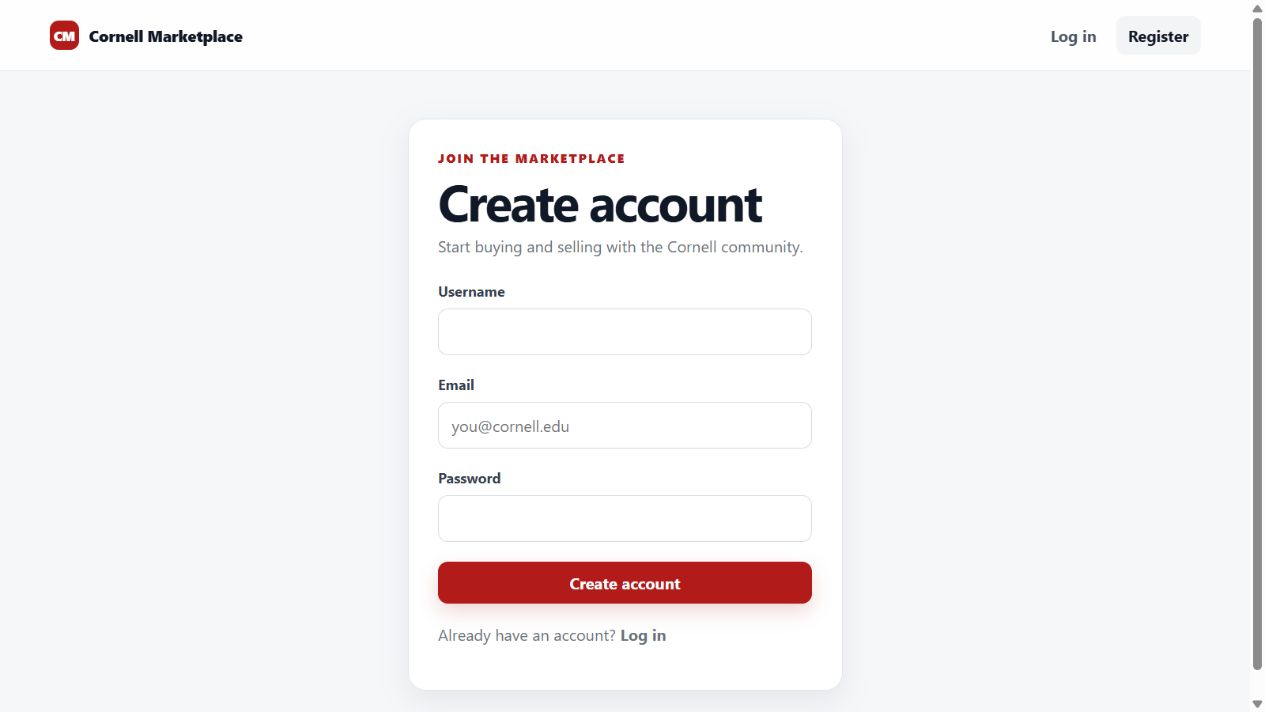
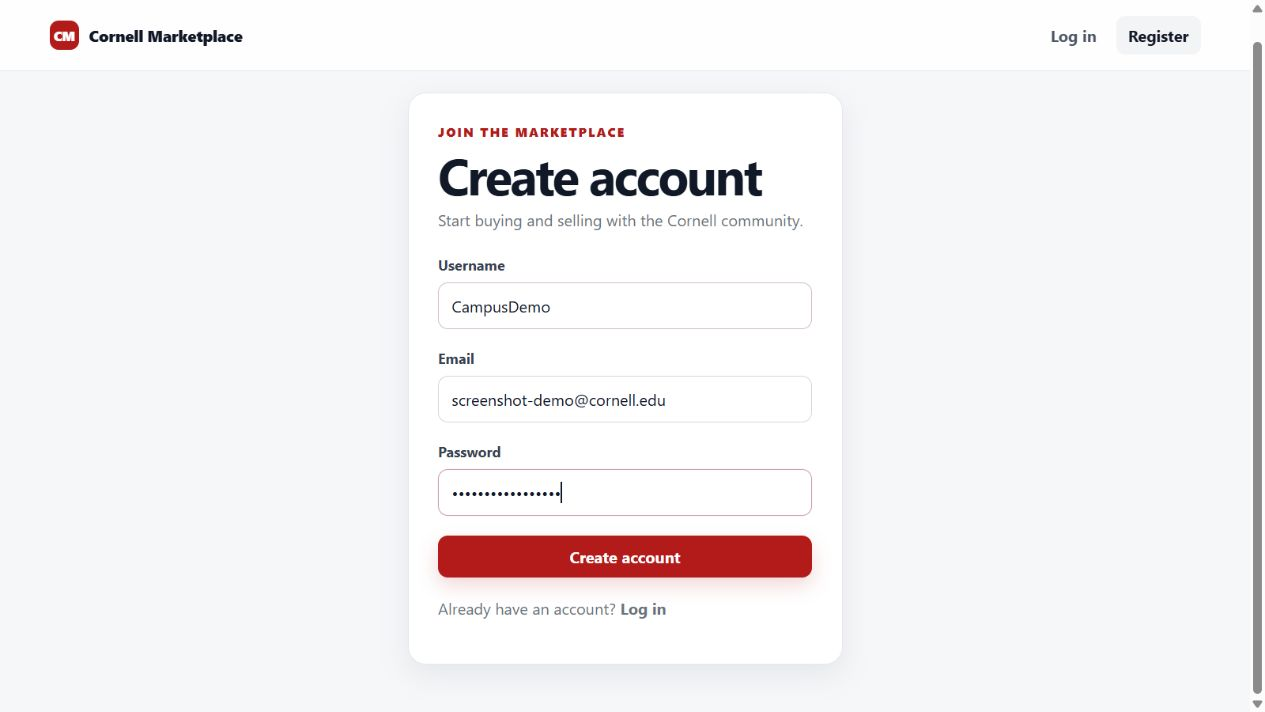
Add reproducible campus demo and verified marketplace screenshots

diff --git a/frontend/src/Homepage.tsx b/frontend/src/Homepage.tsx
@@ -40,6 +40,10 @@ export function HomePage() {
         </div>
       </div>
 
+      {listings.some((listing) => listing.description.startsWith('Demo listing (fictional):')) && (
+        <p className="muted">Demo listings: fictional campus items with stock photos, not real offers.</p>
+      )}
+
       {listings.length === 0 ? (
         <div className="empty-state">No listings found.</div>
       ) : (

diff --git a/frontend/vite.config.ts b/frontend/vite.config.ts
@@ -6,7 +6,7 @@ export default defineConfig({
   plugins: [react()],
   server: {
     proxy: Object.fromEntries(['/auth', '/users', '/listings'].map((path) => [path, {
-      target: 'http://localhost:8080', changeOrigin: true,
+      target: 'http://127.0.0.1:8080', changeOrigin: true,
     }])),
   },
 })

diff --git a/backend/src/main/java/com/yazen/cornellmarketplace/configs/DemoDataSeeder.java b/backend/src/main/java/com/yazen/cornellmarketplace/configs/DemoDataSeeder.java
@@ -1,0 +1,60 @@
+package com.yazen.cornellmarketplace.configs;
+
+import com.yazen.cornellmarketplace.entities.Listing;
+import com.yazen.cornellmarketplace.entities.Users;
+import com.yazen.cornellmarketplace.repositories.ListingRepository;
+import com.yazen.cornellmarketplace.repositories.UserRepository;
+import java.io.IOException;
+import java.util.UUID;
+import org.springframework.boot.CommandLineRunner;
+import org.springframework.context.annotation.Profile;
+import org.springframework.core.io.ClassPathResource;
+import org.springframework.security.crypto.password.PasswordEncoder;
+import org.springframework.stereotype.Component;
+import org.springframework.transaction.annotation.Transactional;
+import tools.jackson.databind.json.JsonMapper;
+
+/** Fictional campus listings, loaded only when the explicit demo profile is active. */
+@Component
+@Profile("demo")
+public class DemoDataSeeder implements CommandLineRunner {
+    static final String EMAIL = "marketplace-demo-listings@cornell.edu";
+    private final UserRepository users;
+    private final ListingRepository listings;
+    private final PasswordEncoder encoder;
+    private final JsonMapper json;
+
+    public DemoDataSeeder(UserRepository users, ListingRepository listings,
+                          PasswordEncoder encoder, JsonMapper json) {
+        this.users = users;
+        this.listings = listings;
+        this.encoder = encoder;
+        this.json = json;
+    }
+
+    @Override
+    @Transactional
+    public void run(String... args) throws IOException {
+        Users seller = users.findByEmail(EMAIL).orElseGet(() -> users.save(
+            new Users("Campus demo seller", EMAIL, encoder.encode(UUID.randomUUID().toString()))));
+        // No verification bypass or shared demo password. This seller cannot log in.
+        try (var input = new ClassPathResource("demo/listings.json").getInputStream()) {
+            var entries = json.readTree(input);
+            var existing = listings.findAll();
+            for (var entry : entries) {
+                String title = entry.get("title").asText();
+                boolean present = java.util.stream.StreamSupport.stream(existing.spliterator(), false).anyMatch(item ->
+                    item.getSeller().getId().equals(seller.getId()) && item.getTitle().equals(title));
+                if (present) continue;
+                Listing item = new Listing();
+                item.setTitle(title);
+                item.setDescription(entry.get("description").asText());
+                item.setPrice(entry.get("price").asDouble());
+                item.setImageUrl(entry.get("imageUrl").asText());
+                item.setPickupLocation(entry.get("pickupLocation").asText());
+                item.setSeller(seller);
+                listings.save(item);
+            }
+        }
+    }
+}

diff --git a/scripts/seed_data.py b/scripts/seed_data.py
@@ -1,56 +1,9 @@
-import requests
-import json
+"""Start the opt-in local marketplace demo, seeded with 12 fictional campus listings."""
+from pathlib import Path
+import os
+import subprocess
 
-BASE_URL = "http://localhost:8080"  # confirm this matches your backend's actual port
-
-# --- Step A: Auth ---
-register_payload = {
-    "username": "seed_bot",
-    "email": "seedbot@cornellmarketplace.com",
-    "password": "SeedPassword123!"
-}
-requests.post(f"{BASE_URL}/auth/register", json=register_payload)
-
-login_payload = {
-    "email": "seedbot@cornellmarketplace.com",
-    "password": "SeedPassword123!"
-}
-login_response = requests.post(f"{BASE_URL}/auth/login", json=login_payload)
-token = login_response.json()["token"]
-headers = {"Authorization": f"Bearer {token}"}
-print("Got token:", token[:20], "...")
-
-# --- Step B: Fetch sample product data ---
-response = requests.get("https://dummyjson.com/products?limit=100")
-data = response.json()
-products = data["products"]
-
-# --- Step C: Create a listing for each product ---
-success_count = 0
-fail_count = 0
-
-for product in products:
-    listing_request = {
-        "title": product["title"],
-        "description": product["description"],
-        "price": product["price"]
-    }
-
-    image_url = product["images"][0]
-    image_bytes = requests.get(image_url).content
-
-    files = {
-        "listingRequest": (None, json.dumps(listing_request), "application/json"),
-        "imageUpload": ("image.jpg", image_bytes, "image/jpeg")
-    }
-
-    resp = requests.post(f"{BASE_URL}/listings", headers=headers, files=files)
-
-    if resp.status_code == 200 or resp.status_code == 201:
-        success_count += 1
-        print(f"[OK] {product['title']}")
-    else:
-        fail_count += 1
-        print(f"[FAIL {resp.status_code}] {product['title']} -> {resp.text[:200]}")
-
-print(f"\nDone. {success_count} succeeded, {fail_count} failed.")
+if __name__ == "__main__":
+    backend = Path(__file__).resolve().parents[1] / "backend"
+    command = [str(backend / "mvnw.cmd")] if os.name == "nt" else ["bash", "./mvnw"]
+    raise SystemExit(subprocess.call(command + ["spring-boot:run", "-Dspring-boot.run.profiles=demo"], cwd=backend))

diff --git a/backend/src/test/java/com/yazen/cornellmarketplace/DemoDataSeederTests.java b/backend/src/test/java/com/yazen/cornellmarketplace/DemoDataSeederTests.java
@@ -1,0 +1,39 @@
+package com.yazen.cornellmarketplace;
+
+import com.yazen.cornellmarketplace.configs.DemoDataSeeder;
+import com.yazen.cornellmarketplace.repositories.ListingRepository;
+import com.yazen.cornellmarketplace.repositories.UserRepository;
+import org.junit.jupiter.api.Test;
+import org.springframework.beans.factory.annotation.Autowired;
+import org.springframework.boot.test.context.SpringBootTest;
+import org.springframework.test.context.ActiveProfiles;
+import static org.junit.jupiter.api.Assertions.*;
+
+@SpringBootTest
+@ActiveProfiles("demo")
+class DemoDataSeederTests {
+    @Autowired DemoDataSeeder seeder;
+    @Autowired ListingRepository listings;
+    @Autowired UserRepository users;
+
+    @Test void seedsRealisticListingsWithoutBypassingAccountVerification() throws Exception {
+        assertEquals(12, listings.count());
+        assertEquals(1, users.count());
+        var seller = users.findByEmail("marketplace-demo-listings@cornell.edu").orElseThrow();
+        assertFalse(seller.isVerified());
+        assertNull(seller.getVerificationCode());
+        assertTrue(seller.getPassword().startsWith("$2"));
+        assertEquals(12, java.util.stream.StreamSupport.stream(listings.findAll().spliterator(), false).map(item -> item.getTitle()).distinct().count());
+        for (var item : listings.findAll()) {
+            assertTrue(item.getPrice() > 0 && item.getPrice() <= 200);
+            assertTrue(item.getDescription().startsWith("Demo listing (fictional):"));
+            assertFalse(item.getPickupLocation().isBlank());
+            assertTrue(item.getImageUrl().startsWith("/demo/"));
+            assertEquals(seller.getId(), item.getSeller().getId());
+        }
+        assertEquals(2, listings.findByTitleContainingIgnoreCase("COMPUTER").size());
+        seeder.run();
+        assertEquals(12, listings.count());
+        assertEquals(1, users.count());
+    }
+}

diff --git a/scripts/demo_mailbox.py b/scripts/demo_mailbox.py
@@ -1,0 +1,26 @@
+"""Local SMTP capture for the demo profile. Never forwards mail to Cornell or elsewhere.
+
+Run with: uv run --with aiosmtpd --no-project python scripts/demo_mailbox.py
+"""
+from aiosmtpd.controller import Controller
+from email import policy
+from email.parser import BytesParser
+from threading import Event
+
+class Mailbox:
+    async def handle_DATA(self, server, session, envelope):
+        message = BytesParser(policy=policy.default).parsebytes(envelope.content)
+        print("Local demo mail to:", envelope.rcpt_tos, flush=True)
+        print(message.get_body(preferencelist=("plain",)).get_content(), flush=True)
+        return "250 Captured locally; not delivered externally"
+
+if __name__ == "__main__":
+    controller = Controller(Mailbox(), hostname="127.0.0.1", port=1025)
+    controller.start()
+    print("Demo mailbox listening on 127.0.0.1:1025. Ctrl+C to stop.", flush=True)
+    try:
+        Event().wait()
+    except KeyboardInterrupt:
+        pass
+    finally:
+        controller.stop()

diff --git a/backend/src/test/java/com/yazen/cornellmarketplace/CornellmarketplaceApplicationTests.java b/backend/src/test/java/com/yazen/cornellmarketplace/CornellmarketplaceApplicationTests.java
@@ -60,6 +60,11 @@ class CornellmarketplaceApplicationTests {
         return json.readTree(body).get("token").asText();
     }
 
+    @Test void demoListingsAreAbsentWithoutDemoProfile() {
+        assertEquals(0, listings.count());
+        assertTrue(users.findByEmail("marketplace-demo-listings@cornell.edu").isEmpty());
+    }
+
     @Test void registerVerifyLoginAndReadProfile() throws Exception {
         register(" Student@Cornell.edu ");
         verify(mail).sendVerificationCode(eq("student@cornell.edu"), matches("[0-9]{6}"));

diff --git a/README.md b/README.md
@@ -2,9 +2,19 @@
 
 A campus marketplace with Cornell email verification, seller-owned listings, title search, and photo uploads. The backend uses Java 17, Spring Boot, Spring Security, and PostgreSQL; the frontend uses React, TypeScript, and Vite. Photos are stored in S3.
 
-![Cornell Marketplace registration screen](docs/screenshots/marketplace-registration.jpg)
+## Screenshots
 
-Registration screen captured October 8, 2026. The public listing feed was empty during this check; no account was submitted.
+![Seeded campus marketplace homepage](docs/screenshots/marketplace-homepage.jpg)
+
+Twelve fictional college listings, with used-item prices, condition notes, campus pickup locations, and stock photos. The screenshot shows the real frontend backed by the local Spring application and H2 database.
+
+![Creating a local demo account](docs/screenshots/marketplace-registration.jpg)
+
+![Email verification after account creation](docs/screenshots/marketplace-verification.jpg)
+
+Account creation was submitted through the app, the code was captured by a local SMTP mailbox, and verification logged the demo account in. No mail was sent to Cornell. Screenshots captured October 11, 2026.
+
+![Searching the seeded listings](docs/screenshots/marketplace-search.jpg)
 
 ## What's implemented
 
@@ -17,6 +27,30 @@ A few implementation details:
 - Password hashes and verification codes are excluded from user and listing JSON.
 - The frontend preserves a session during a network failure and offers a retry. An invalid or expired token clears the session.
 - Search uses Spring Data's `findByTitleContainingIgnoreCase`. It is a case-insensitive title substring search.
+
+## Run the seeded local demo
+
+You only need Java 17, Node 24, and Python with [uv](https://docs.astral.sh/uv/). No PostgreSQL, S3, or external email account is needed for browsing these example listings.
+
+From the repo root, run these in separate terminals:
+
+```bash
+# Local SMTP capture: prints verification codes, never forwards email.
+uv run --with aiosmtpd --no-project python scripts/demo_mailbox.py
+
+# Starts the Spring backend with the explicit demo profile and 12 listings.
+python scripts/seed_data.py
+
+cd frontend
+npm ci
+npm run dev
+```
+
+Open the Vite URL. Register a fictional `@cornell.edu` address, then enter the code printed by the local mailbox. Registration, verification, JWT login, and title search use the normal API; authentication is not bypassed.
+
+The `demo` profile binds the backend to `127.0.0.1` and uses an in-memory H2 database. Restarting clears demo accounts and reseeds the listings. The synthetic listing seller is unverified and has a random hashed password, so it cannot log in. Seeding is idempotent and does not overwrite existing records. The local demo JWT key is public test configuration; do not use this profile for a public deployment. S3 uploads still require the normal S3 setup.
+
+Data is in `backend/src/main/resources/demo/listings.json`; photos and source URLs are in `frontend/public/demo/`. Both the UI and listing descriptions label the data as fictional. Normal startup without the `demo` profile does not seed listings or replace production settings.
 
 ## Local setup
 
@@ -48,7 +82,7 @@ npm ci
 npm run dev
 ```
 
-Vite proxies `/auth`, `/users`, and `/listings` to `http://localhost:8080`. Registration needs working email delivery; verification is required before login.
+Vite proxies `/auth`, `/users`, and `/listings` to `http://127.0.0.1:8080`. Registration needs working email delivery; verification is required before login.
 
 ## Checks
 
@@ -61,7 +95,7 @@ npm run build
 npm run lint
 ```
 
-Use `bash ./mvnw test` on macOS/Linux. Backend tests start the application with H2, real BCrypt/JWT/security filters, and mocked email and S3 calls. They cover registration through login, malformed requests, verification expiry, email rollback, secret serialization, and listing permissions. Frontend tests cover authentication responses and session loading.
+Use `bash ./mvnw test` on macOS/Linux. Backend tests start the application with H2, real BCrypt/JWT/security filters, and mocked email and S3 calls. They cover registration through login, malformed requests, verification expiry, email rollback, secret serialization, and listing permissions. Frontend tests cover authentication responses and session loading. Demo tests also check seed counts, prices, pickup locations, title search, repeat-run idempotence, and an unverified seed seller.
 
 These tests do not verify a deployed PostgreSQL database, email delivery, or S3 permissions.
 

diff --git a/frontend/public/demo/SOURCES.md b/frontend/public/demo/SOURCES.md
@@ -1,0 +1,13 @@
+# Demo listing photos
+
+Stock photos from Unsplash, used for fictional local listings. These are not photos of real items for sale.
+
+- desk.jpg: https://images.unsplash.com/photo-1518455027359-f3f8164ba6bd
+- chair.jpg: https://images.unsplash.com/photo-1598300042247-d088f8ab3a91
+- monitor.jpg: https://images.unsplash.com/photo-1527443224154-c4a3942d3acf
+- headphones.jpg: https://images.unsplash.com/photo-1484704849700-f032a568e944
+- books.jpg: https://images.unsplash.com/photo-1543002588-bfa74002ed7e
+- bike.jpg: https://images.unsplash.com/photo-1485965120184-e220f721d03e
+- backpack.jpg: https://images.unsplash.com/photo-1553062407-98eeb64c6a62
+- lamp.jpg: https://images.unsplash.com/photo-1507473885765-e6ed057f782c
+- laptop.jpg: https://images.unsplash.com/photo-1496181133206-80ce9b88a853
